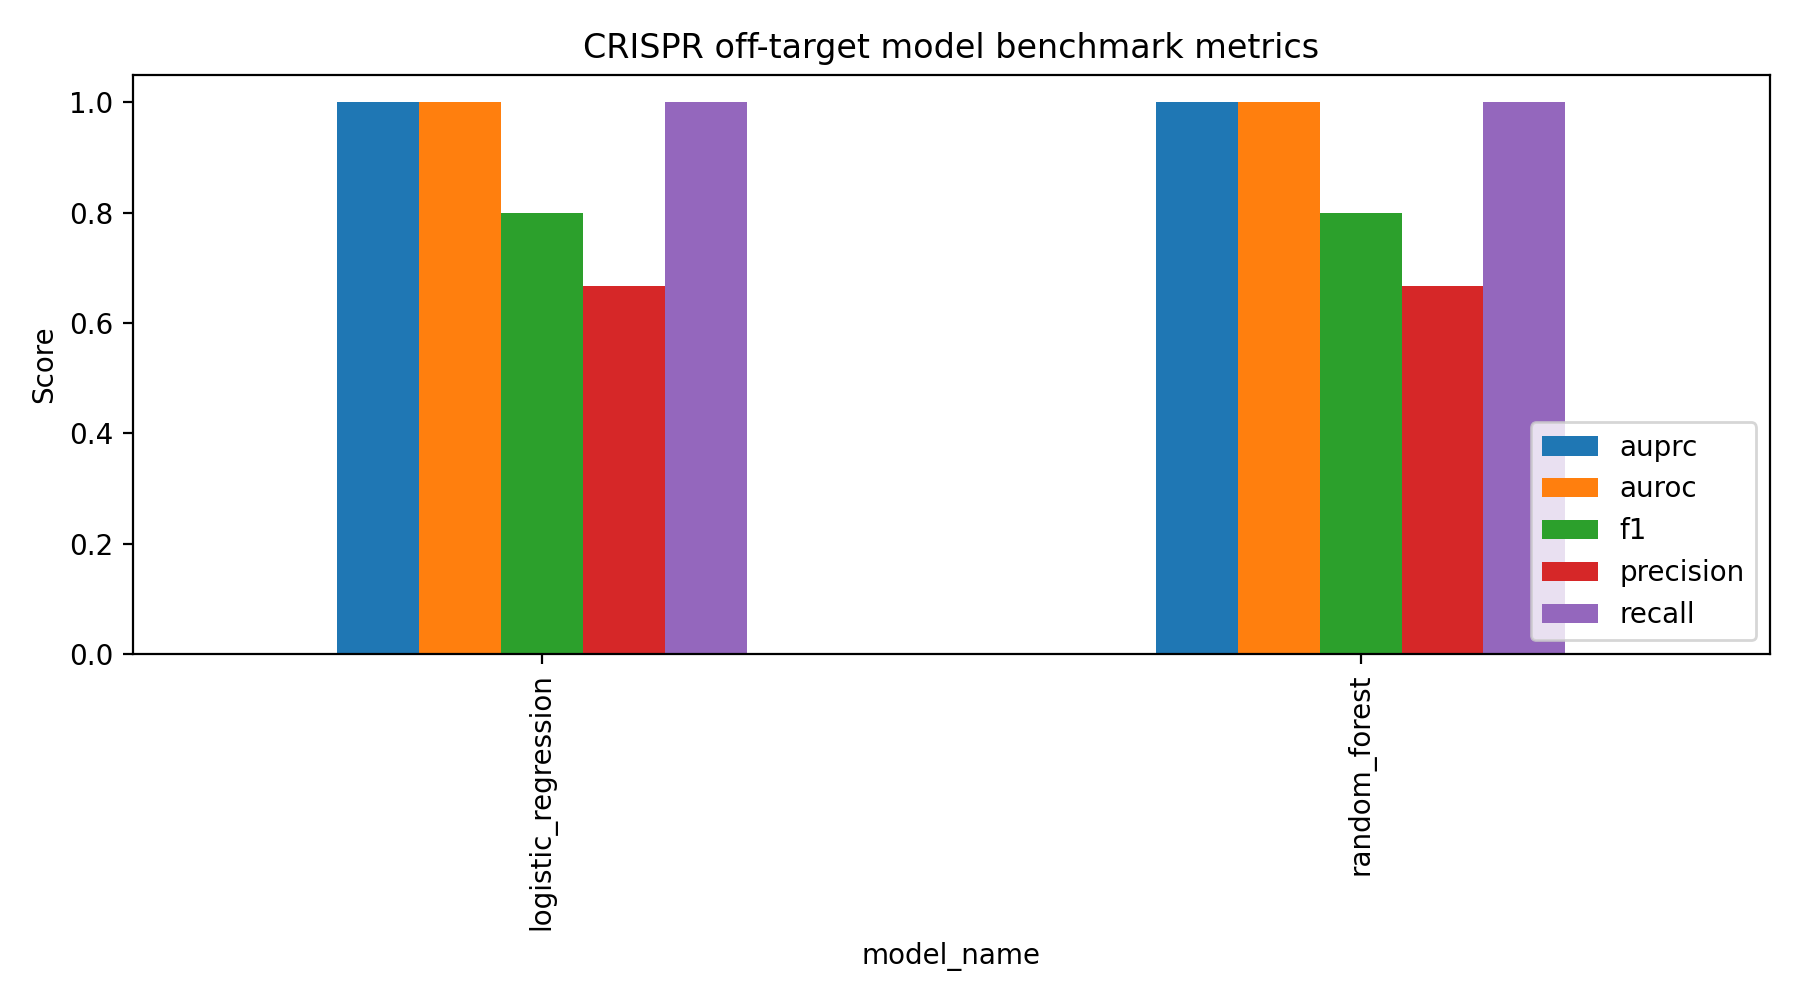
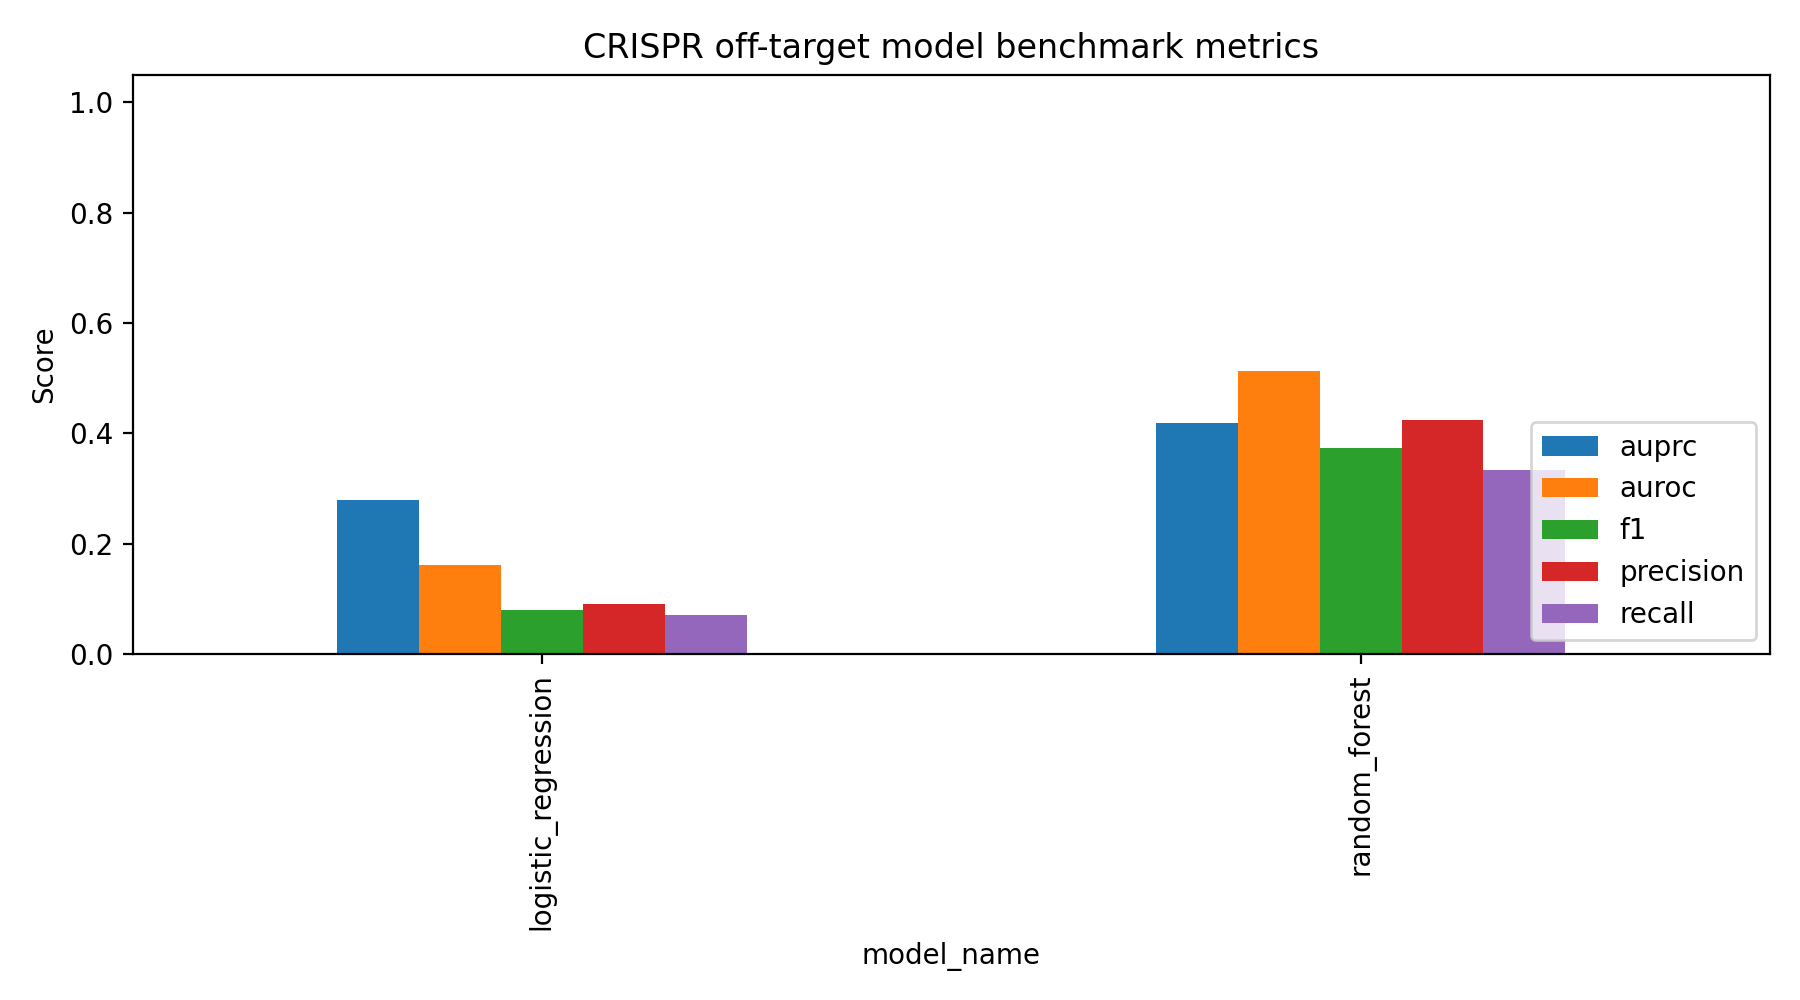
Add Tsai GUIDE-seq public dataset benchmark report

Changed region(s): [[0.1867, 0.093, 0.4356, 0.62], [0.6222, 0.093, 0.8711, 0.496]]

diff --git a/reports/tsai_guideseq_2015_benchmark_report.md b/reports/tsai_guideseq_2015_benchmark_report.md
@@ -1,0 +1,36 @@
+# CRISPR-EditSafe-ML Benchmark Report
+
+## Overview
+This report summarizes baseline model performance for a standardized CRISPR off-target dataset.
+
+## Benchmark summary
+
+|   n |   positive_rate |   threshold |   accuracy |   precision |    recall |       f1 |    auprc |    auroc | confusion_matrix     | model_name          | split_strategy   |   n_features |   n_train |   n_test |
+|----:|----------------:|------------:|-----------:|------------:|----------:|---------:|---------:|---------:|:---------------------|:--------------------|:-----------------|-------------:|----------:|---------:|
+| 103 |        0.407767 |         0.5 |   0.330097 |   0.0909091 | 0.0714286 | 0.08     | 0.279506 | 0.161202 | [[31, 30], [39, 3]]  | logistic_regression | sgRNA_disjoint   |          188 |       554 |      103 |
+| 103 |        0.407767 |         0.5 |   0.543689 |   0.424242  | 0.333333  | 0.373333 | 0.41953  | 0.513076 | [[42, 19], [28, 14]] | random_forest       | sgRNA_disjoint   |          188 |       554 |      103 |
+
+## Best model by AUPRC
+
+- Model: `random_forest`
+- AUPRC: `0.4195295135233322`
+- AUROC: `0.5130757220921155`
+- F1: `0.3733333333333333`
+
+## Metric comparison
+
+![Metric comparison](figures/benchmark_metrics.png)
+
+## Risk-score distributions
+
+![Risk distributions](figures/risk_score_distributions.png)
+
+## Interpretation notes
+
+- AUPRC is emphasized because CRISPR off-target data are often class-imbalanced.
+- sgRNA-disjoint evaluation is preferred when enough unique guides are available.
+- Small demo datasets can produce unstable or perfect-looking scores; use public benchmark datasets for meaningful interpretation.
+
+## Reproducibility
+
+Benchmark directory: `results\tsai_guideseq_2015_benchmark`
